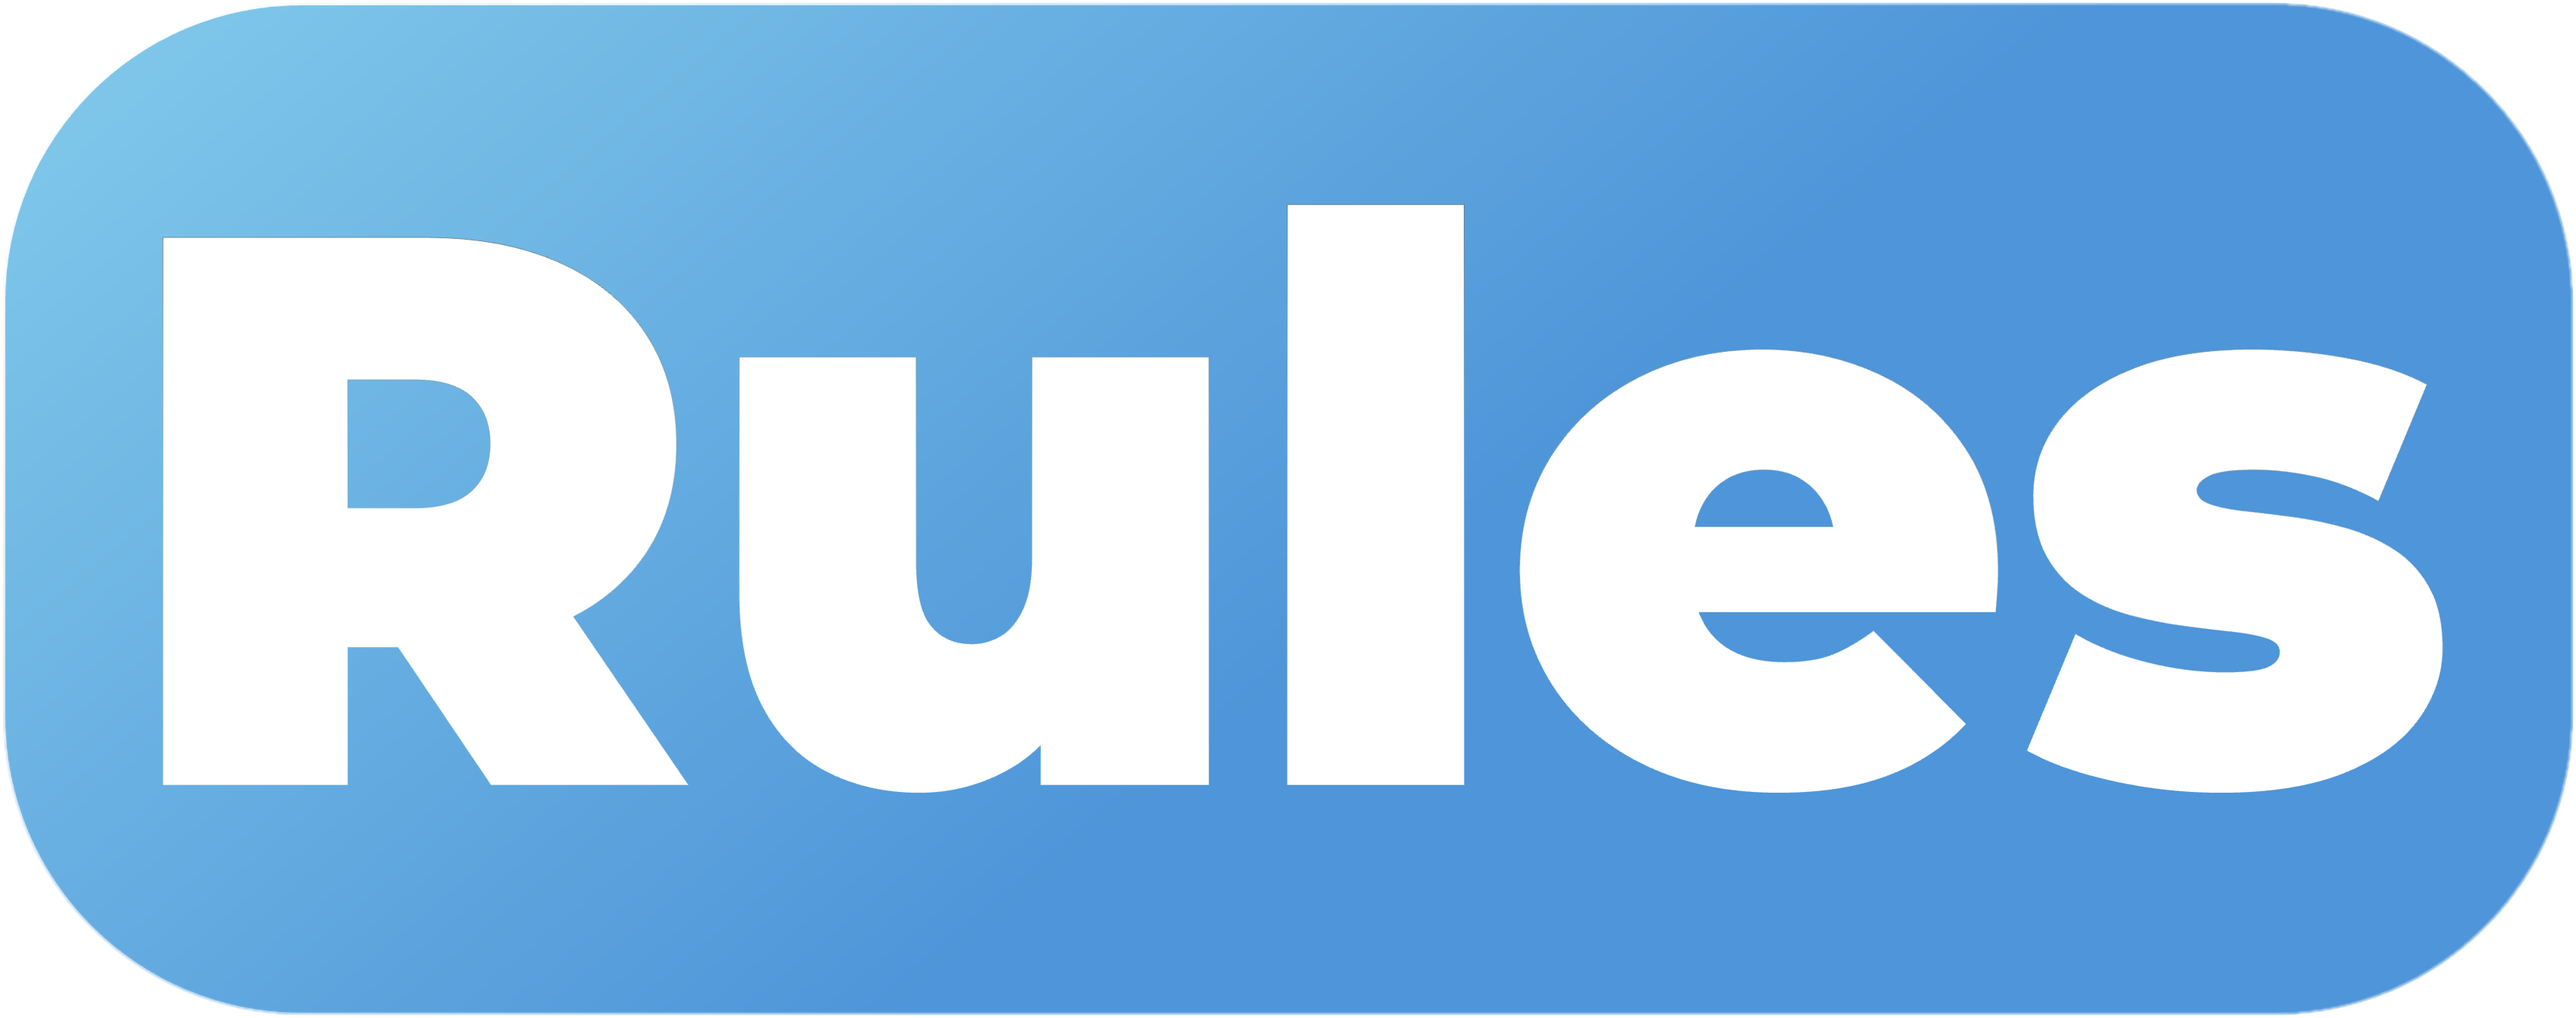
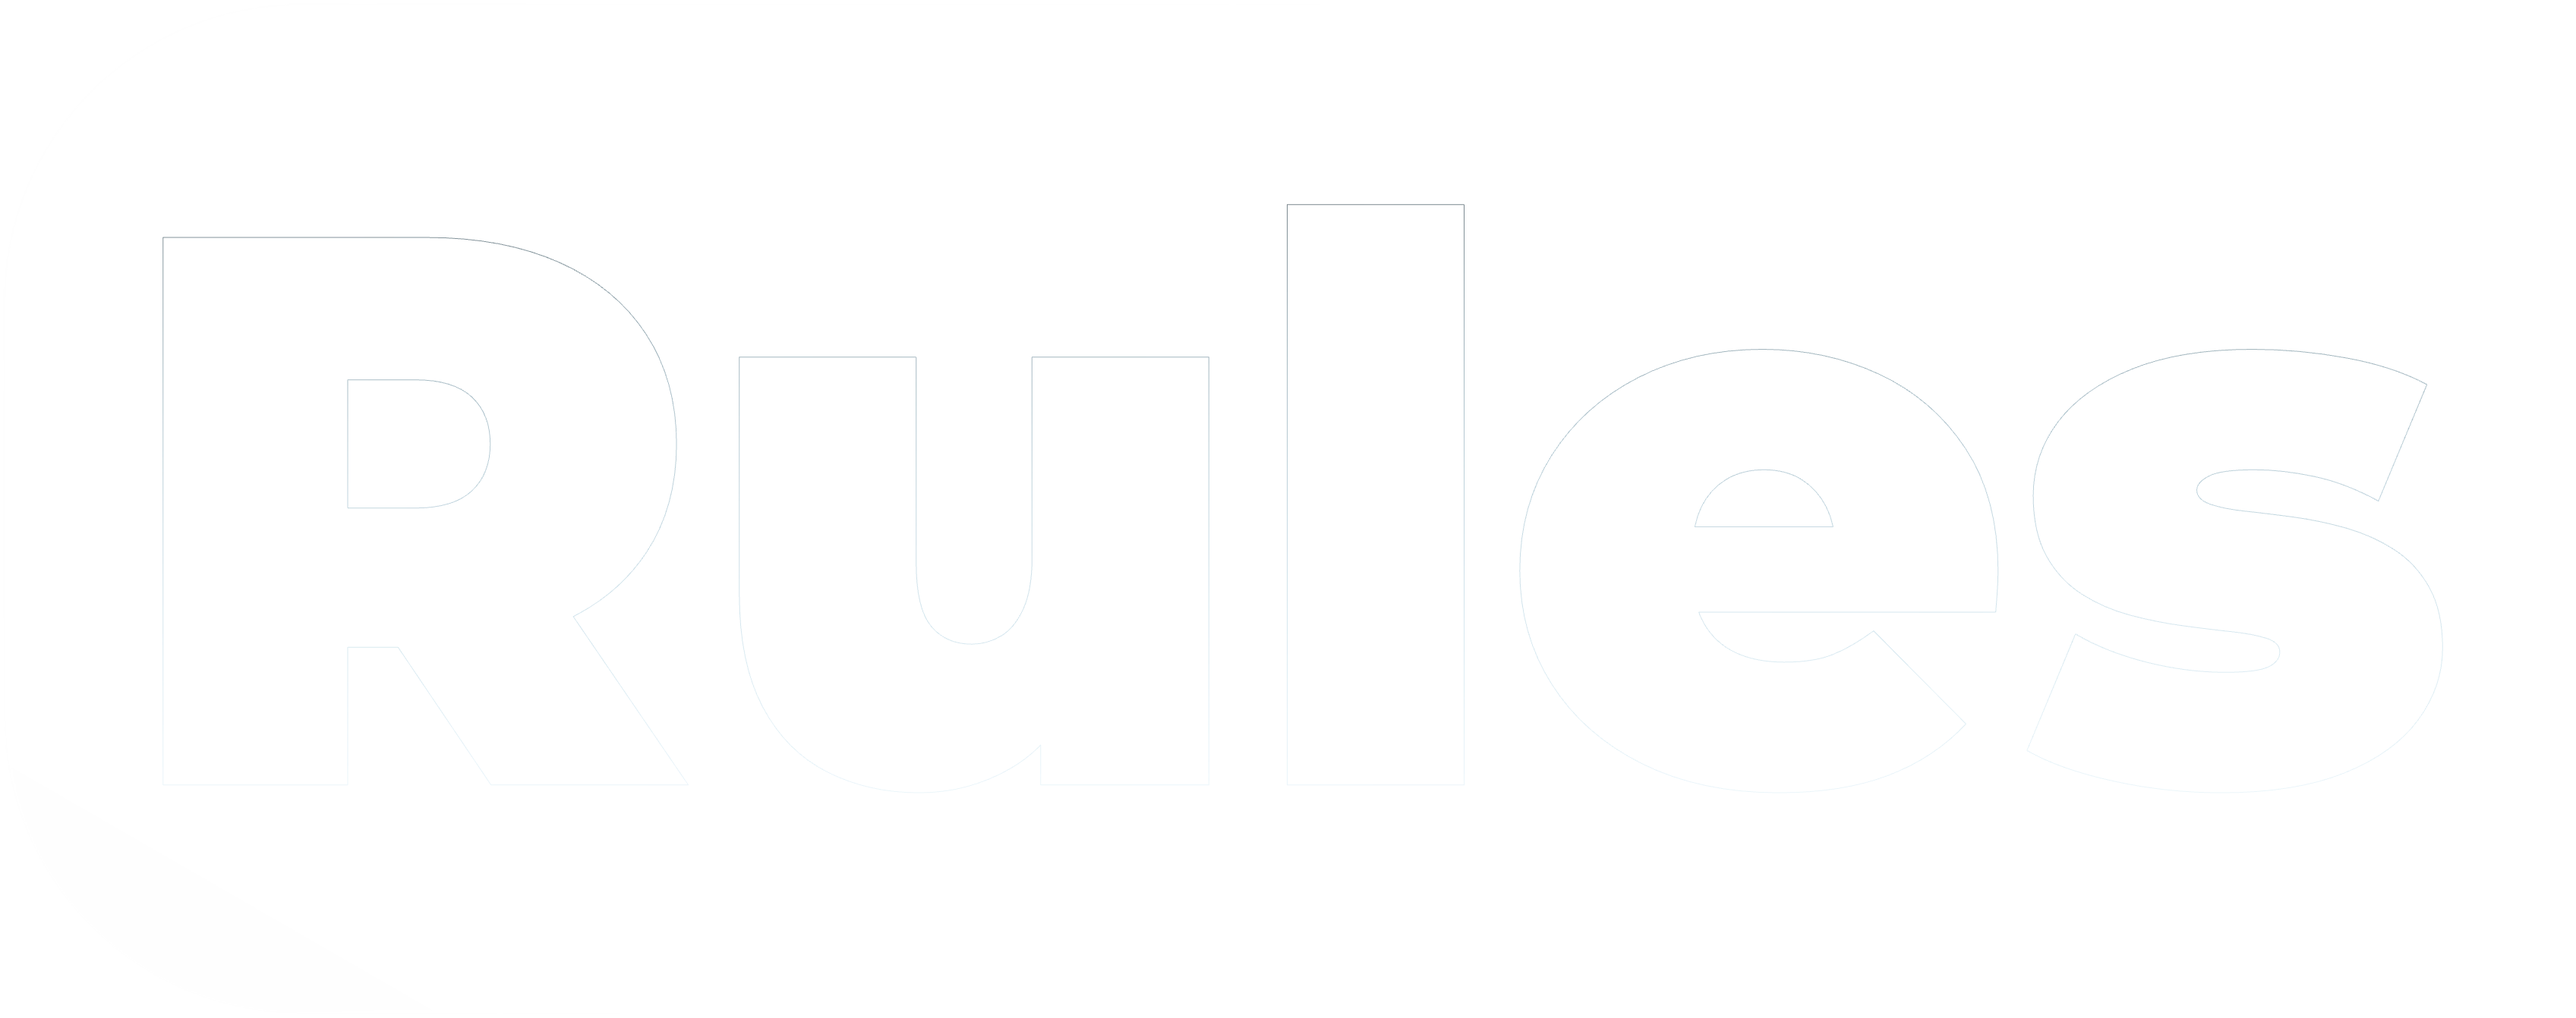
made changes to rules

diff --git a/src/events/ready/999rules.ts b/src/events/ready/999rules.ts
@@ -20,7 +20,12 @@ export default async (bot: Client) => {
   try {
     await rulesChannel.bulkDelete(10);
     await rulesChannel.send({
-      files: ["https://thorminate.github.io/Aeonix/images/rules.png"],
+      files: [
+        {
+          attachment: "https://thorminate.github.io/aeonix/images/rules.png",
+          name: "rules.png",
+        },
+      ],
     });
     await rulesChannel.send({
       content:
